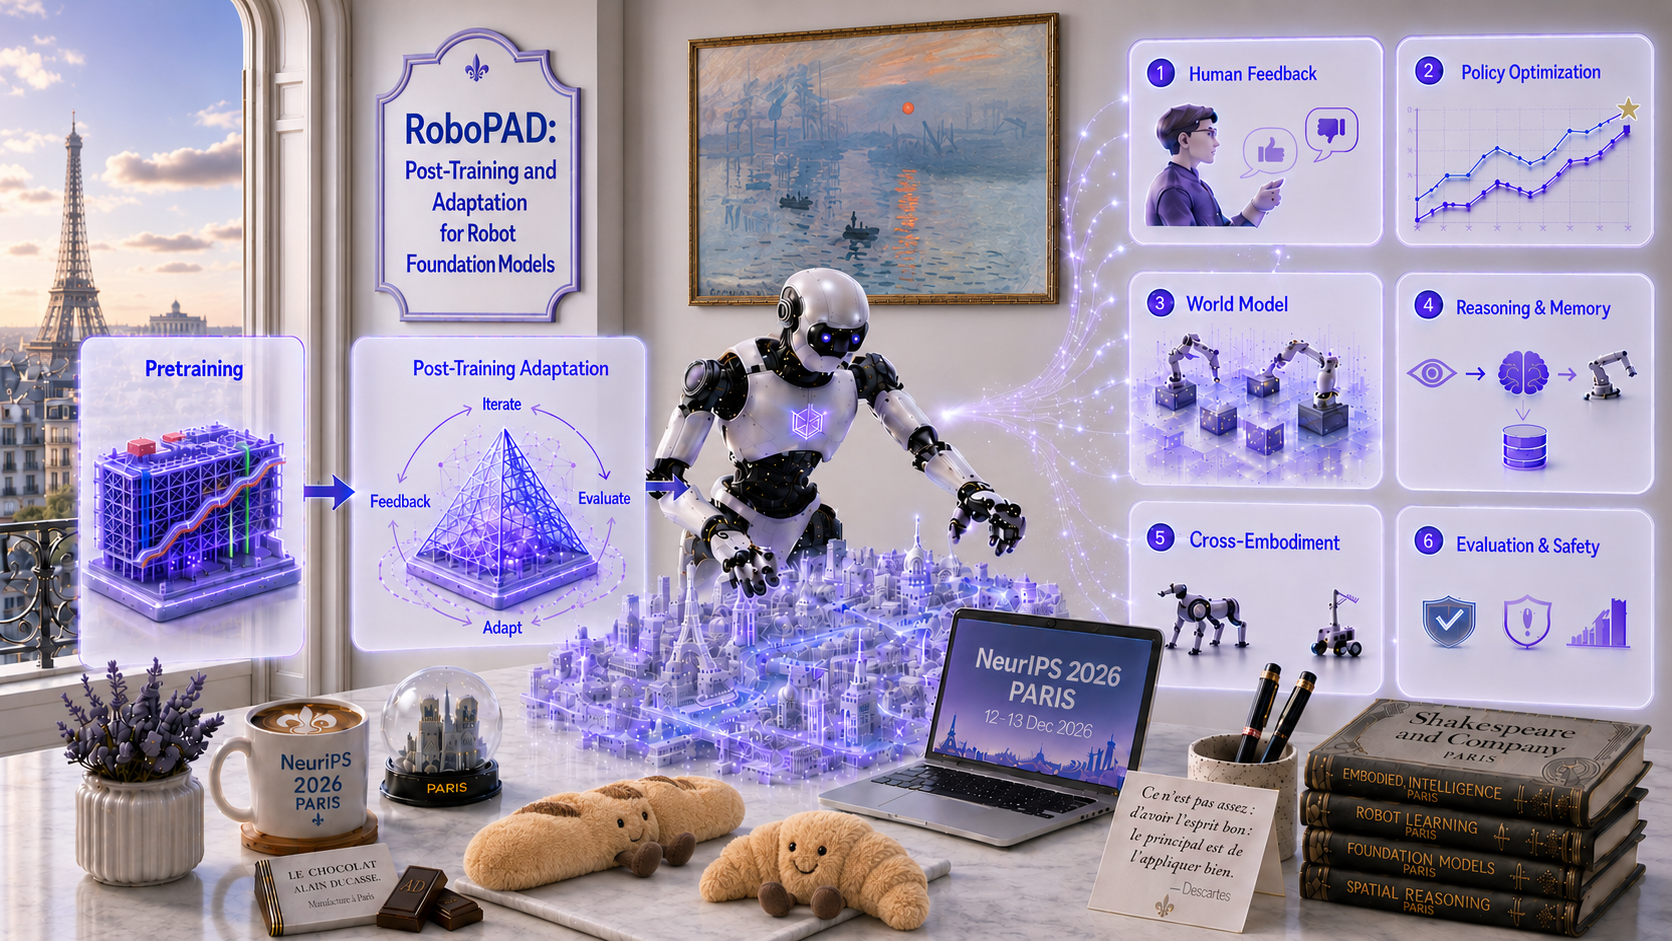
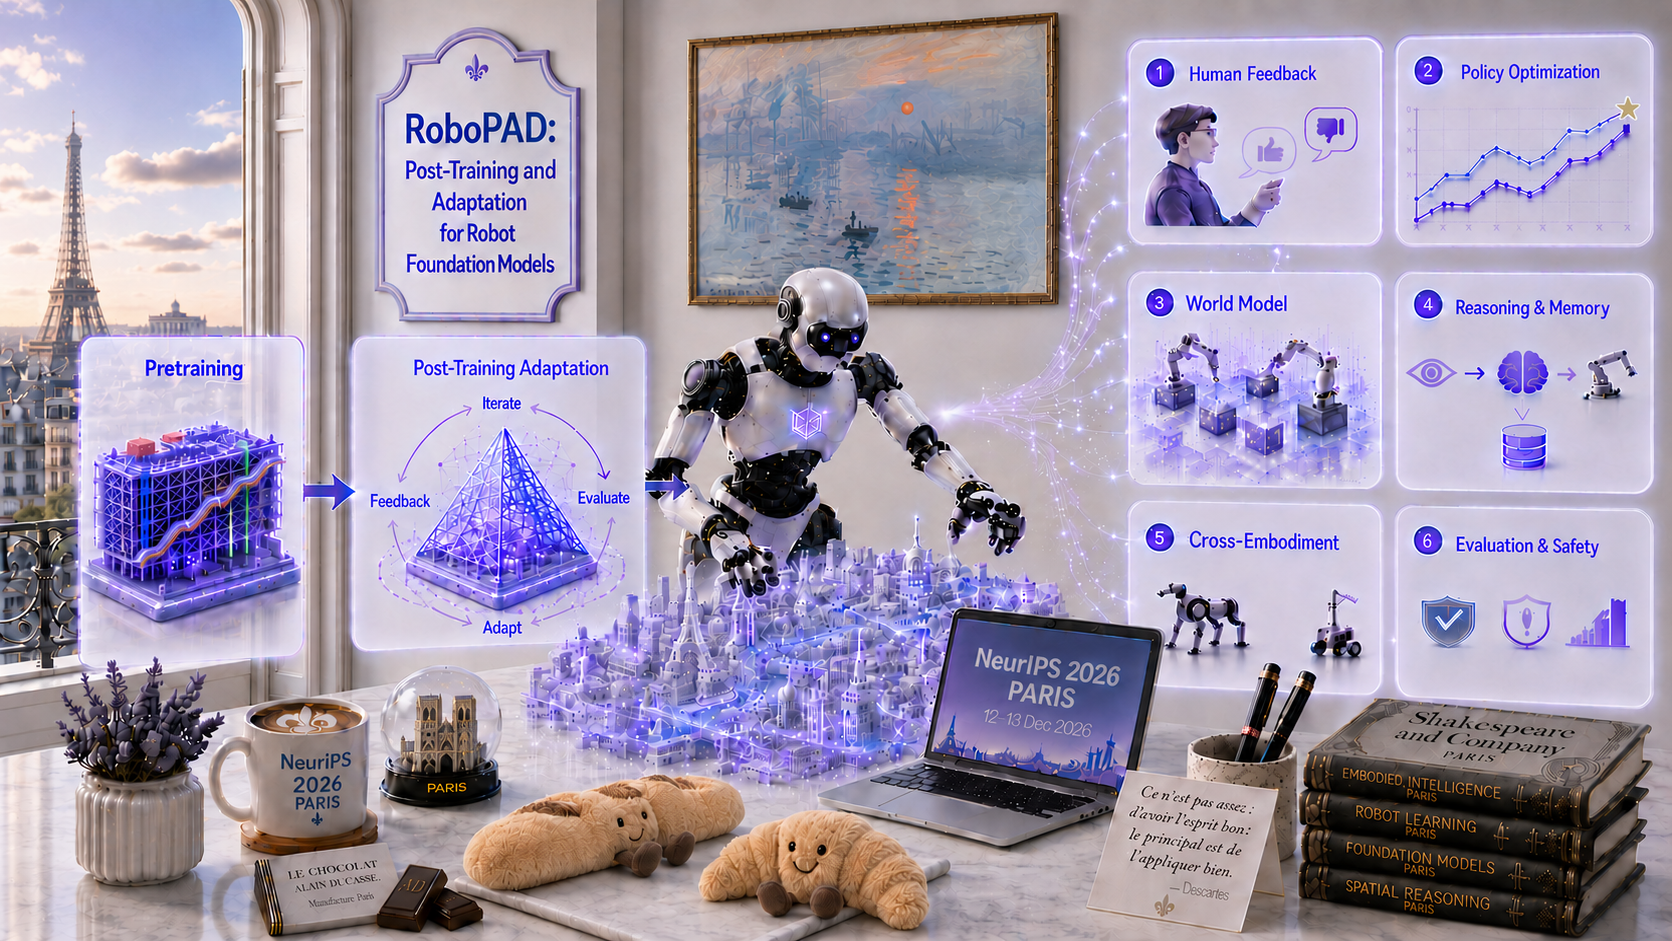
Update homepage teaser image to v6.

diff --git a/index.html b/index.html
@@ -234,7 +234,7 @@
                     <span class="pill inline-flex items-center rounded-full px-3.5 py-1.5 text-sm text-brand-100">Paris, France</span>
                 </div>
             </div>
-            <img src="teaser.png?v=5" alt="RoboPAD workshop teaser: post-training adaptation pipeline for robot foundation models" class="block h-auto w-full" loading="eager" decoding="async" />
+            <img src="teaser.png?v=4" alt="RoboPAD workshop teaser: post-training adaptation pipeline for robot foundation models" class="block h-auto w-full" loading="eager" decoding="async" />
             <div class="teaser-easter-egg px-6 py-4 md:px-8 md:py-5">
                 <p class="text-sm leading-relaxed text-brand-100/60 md:text-[0.95rem]">
                     <span class="mr-1.5 inline-flex align-[-0.15em]" aria-hidden="true">